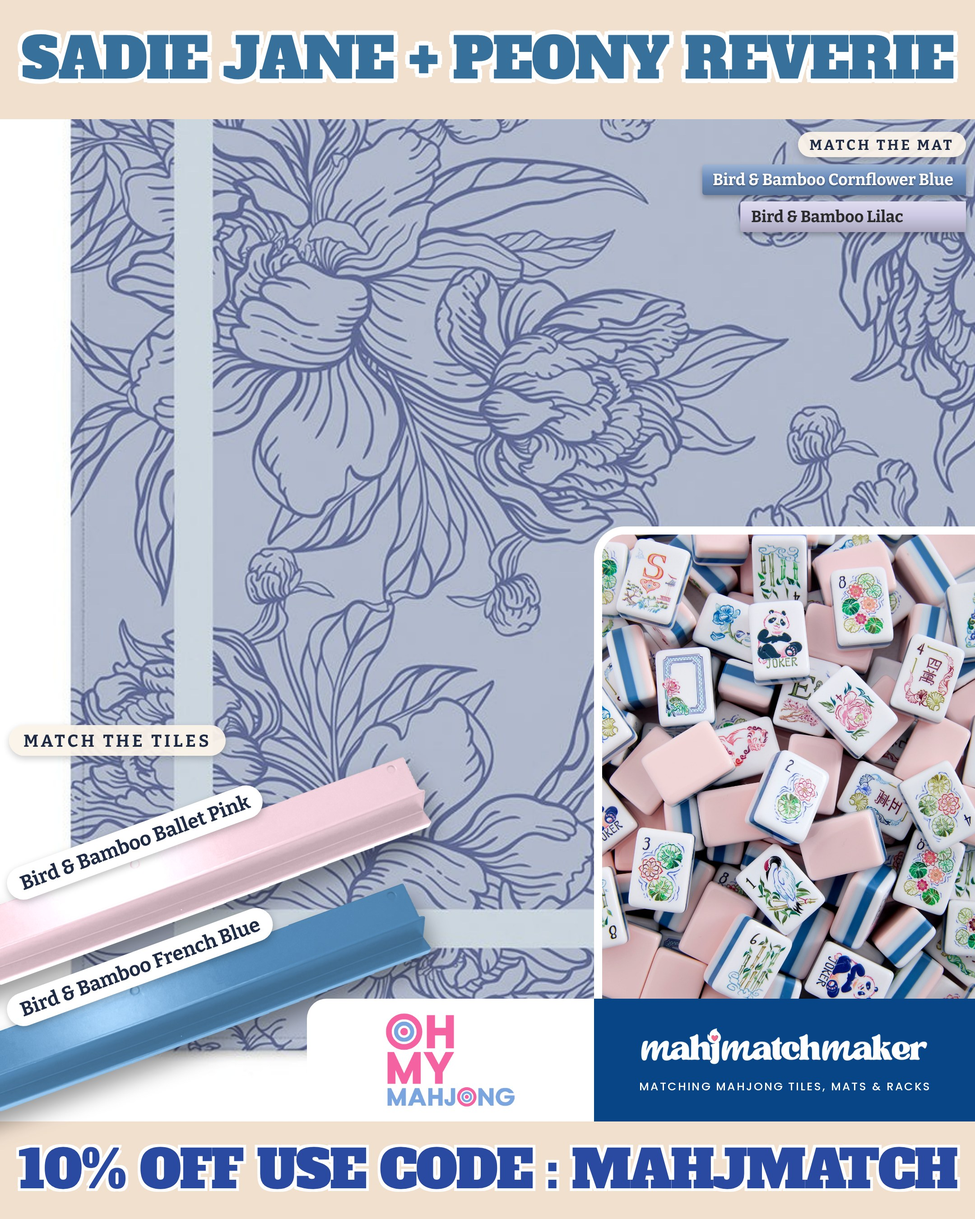
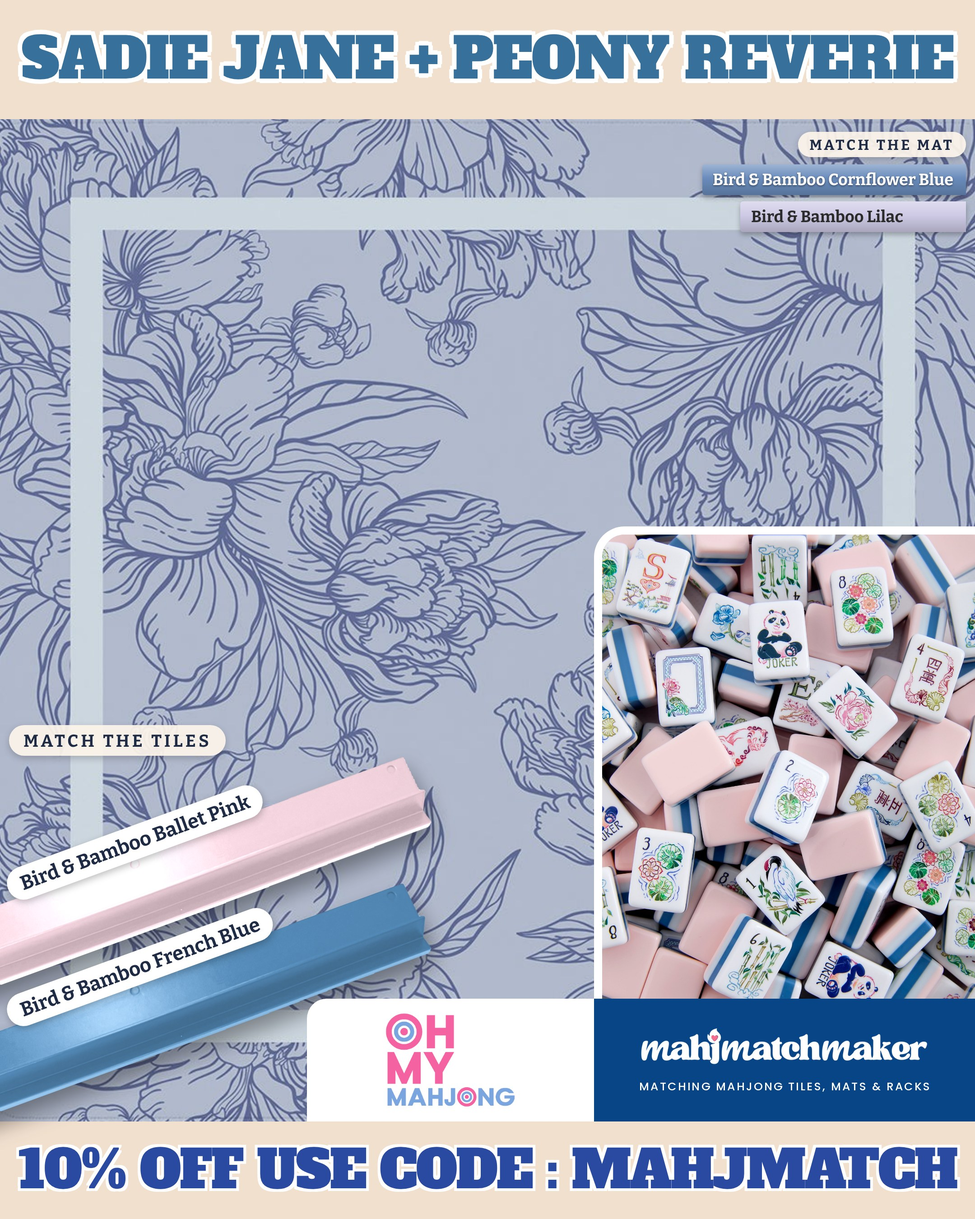
Sadie Jane (held locally): Reverie + Citrus Grove reframed, Lattice card added
Claude-Session: https://claude.ai/code/session_01QxwYQtmWcAr4s5uYJYP3mA

Changed region(s): [[0.0, 0.0933, 1.0, 0.9333], [0.0, 0.7778, 0.1241, 0.84], [0.1241, 0.7467, 0.2481, 0.7778]]

diff --git a/docs/ANSWERS.md b/docs/ANSWERS.md
@@ -1628,3 +1628,5 @@ Tiffany: tabletop room images look AI, don't want them. Use the clean flat/aeria
 - Nov 22 12:51am (Main): Tiffany (reviewing Sadie Jane round 2; 'Don't change anything on the album, but I'll give you feedback'): Nichole mat looks low-res; Livy looks low-res; Grace Watercolor has a big white bar at the bottom (bring the mat down). FIXED LOCALLY ONLY (not published): Nichole + Livy re-rendered from Etsy il_fullxfull 3000px photos; Grace Watercolor box moved inside the mat. HOLD: publish with her other round-2 feedback only after she says she is finished (rule 5). RULE: Etsy mats always use il_fullxfull, never the listing thumbnail.
 
 - Nov 22 1:10am (Main): Tiffany: Sadie Jane racks = Bird & Bamboo BALLET PINK + FRENCH BLUE (option A). 'Don't change anything up' = still no changes to the album page while she reviews. Set in config/colorcards.json; cards rebuilt locally at 2x, NOT published (hold until she says she is done).
+
+- Nov 22 1:10-1:12am (Main): Tiffany (still reviewing, 'don't change anything yet'): Peony Reverie still has a white border (crop to the corner); add a card for Miss Mahjong LATTICE (the Miss Darling tiles' mat) which she had added and lost. DONE LOCALLY, NOT PUBLISHED: Reverie boxed inside the mat; Lattice card added (brand full-size photo); edge test run on all 60 cards also caught Chinoiserie Citrus Grove (white left margin) -> re-rendered from the brand's 4000px photo.
